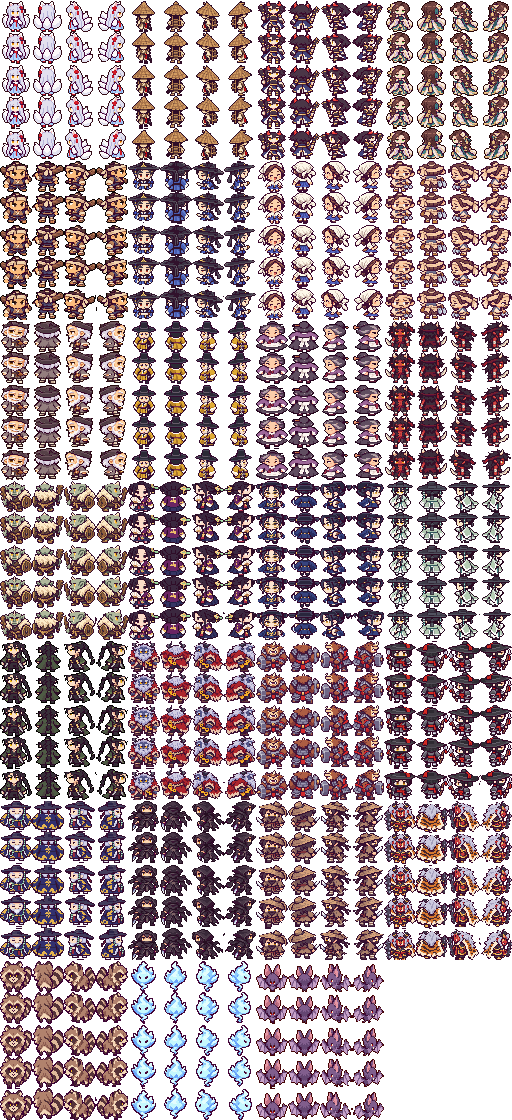
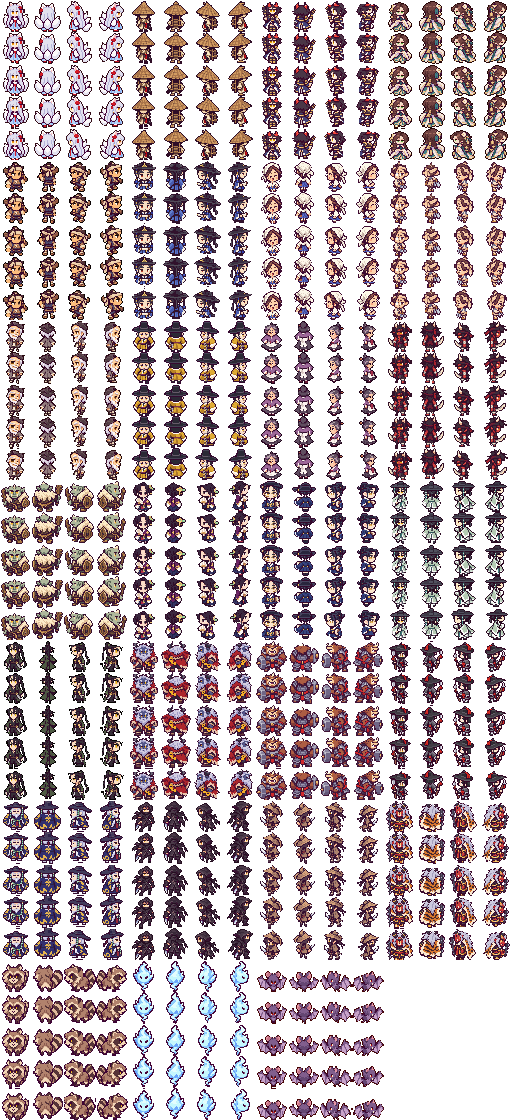
도트 캐릭터를 가로·세로 같은 비율로 줄여 납작해지지 않게
GPT 원본은 키 40~50칸인데 세로만 31칸으로 줄이고 가로는 그대로 두어 몸이 납작했다.
네 방향 모두 같은 비율로 가로·세로를 함께 줄인다(키는 그대로 31칸, 몸이 원래 비율로 홀쭉해진다).

Claude-Session: https://claude.ai/code/session_01ExoAMP3uw9mTqtVk1QAFV9

diff --git a/scripts/pixel-chars.py b/scripts/pixel-chars.py
@@ -284,11 +284,14 @@ def poses(path):
     hh, ww = a.shape[:2]
     h, w = hh // 2, ww // 2
     quad = [a[:h, :w], a[:h, w:], a[h:, :w], a[h:, w:]]  # 아래, 왼, 오른, 위
+    qs = [trim(q.astype(int)) for q in (quad[0], quad[3], quad[1], quad[2])]
+    # GPT는 거의 늘 키 40~50칸으로 그린다(칸을 크게 그리라 해도, 상자를 그려 줘도 픽셀을 더 잘게 쪼갤 뿐).
+    # 세로만 31칸으로 줄이면 몸이 납작해지니 가로도 같은 비율로 줄인다. 네 방향 모두 같은 비율
+    f = min(1.0, *(FIT / q.shape[0] for q in qs), *(C / q.shape[1] for q in qs))
     out = []
-    for q in (quad[0], quad[3], quad[1], quad[2]):
-        q = trim(q.astype(int))
-        q = squeeze(q, 0, FIT)
-        q = squeeze(q, 1, C)
+    for q in qs:
+        q = squeeze(q, 0, min(FIT, round(q.shape[0] * f)))
+        q = squeeze(q, 1, min(C, round(q.shape[1] * f)))
         out.append(q.astype(np.uint8))
     return out, outline
 
